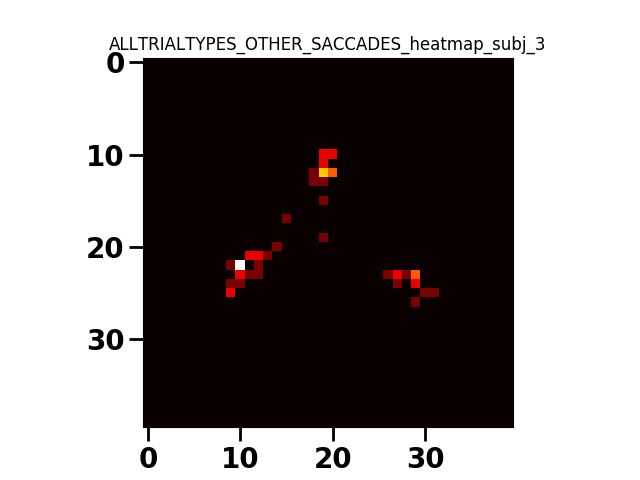
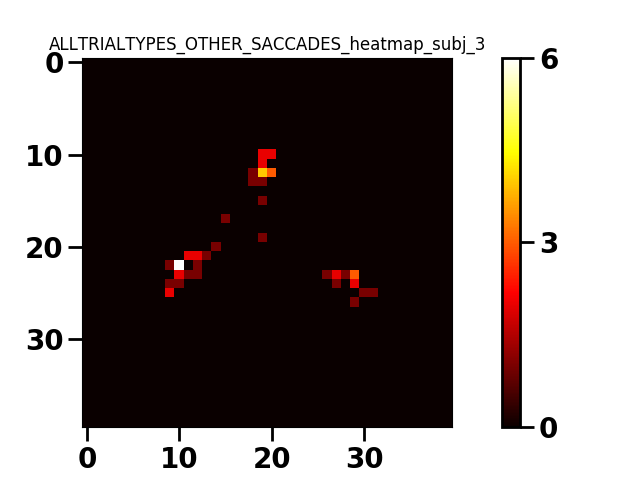
added legends, still figuring out why the legend on the aggregated plot is adding two legends

diff --git a/saccade_kinetmatic_analysis.py b/saccade_kinetmatic_analysis.py
@@ -29,16 +29,16 @@ import os.path
 
 # Trial types: 1 = high C, high A; 2 = High C, low A; 3 = low C, high A; 4 = low C, lowA 
 # 
-# datapath = '/Users/jameswilmott/Documents/MATLAB/data/CRET/'; #
-# savepath =  '/Users/jameswilmott/Documents/Python/CRET/data/';  # #/'/Users/james/Documents/Python/CRET/data/';  # 
-# shelvepath =  '/Users/jameswilmott/Documents/Python/CRET/data/'; # # #  #'/Users/james/Documents/Python/CRET/data/'; # 
-# figurepath = '/Users/jameswilmott/Documents/Python/CRET/figures/'; # #'/Users/james/Documents/Python/CRET/figures/'; #
+datapath = '/Users/jameswilmott/Documents/MATLAB/data/CRET/'; #
+savepath =  '/Users/jameswilmott/Documents/Python/CRET/data/';  # #/'/Users/james/Documents/Python/CRET/data/';  # 
+shelvepath =  '/Users/jameswilmott/Documents/Python/CRET/data/'; # # #  #'/Users/james/Documents/Python/CRET/data/'; # 
+figurepath = '/Users/jameswilmott/Documents/Python/CRET/figures/'; # #'/Users/james/Documents/Python/CRET/figures/'; #
 
 
-datapath = '/Volumes/WORK_HD/data/CRET/'; #'/Users/jameswilmott/Documents/MATLAB/data/CRET/'; #
-savepath =  '/Volumes/WORK_HD/code/Python/CRET/data/'; #'/Users/jameswilmott/Documents/Python/CRET/data/';  # #/'/Users/james/Documents/Python/CRET/data/';  # 
-shelvepath =  '/Volumes/WORK_HD/code/Python/CRET/data/'; #'/Users/jameswilmott/Documents/Python/CRET/data/'; # # #  #'/Users/james/Documents/Python/CRET/data/'; # 
-figurepath = '/Volumes/WORK_HD/code/Python/CRET/figures/'; #'/Users/jameswilmott/Documents/Python/CRET/figures/'; # #'/Users/james/Documents/Python/CRET/figures/'; #
+# datapath = '/Volumes/WORK_HD/data/CRET/'; #'/Users/jameswilmott/Documents/MATLAB/data/CRET/'; #
+# savepath =  '/Volumes/WORK_HD/code/Python/CRET/data/'; #'/Users/jameswilmott/Documents/Python/CRET/data/';  # #/'/Users/james/Documents/Python/CRET/data/';  # 
+# shelvepath =  '/Volumes/WORK_HD/code/Python/CRET/data/'; #'/Users/jameswilmott/Documents/Python/CRET/data/'; # # #  #'/Users/james/Documents/Python/CRET/data/'; # 
+# figurepath = '/Volumes/WORK_HD/code/Python/CRET/figures/'; #'/Users/jameswilmott/Documents/Python/CRET/figures/'; # #'/Users/james/Documents/Python/CRET/figures/'; #
 
 #import database (shelve) for saving processed data and a .csv for saving the velocity threshold criterion data
 subject_data = shelve.open(shelvepath+'data');
@@ -727,6 +727,9 @@ def createFirstSaccadeEndpointMap(block_matrix, ttype):
 			if b.block_nr==len(blocks):
 				#save the 'raw' heat maps
 				figure(); imshow(subj_arrays[subj_nr], cmap='hot'); title('%s_FIRST_SACCADE_heatmap_subj_%s'%(name, subj_nr));
+				#set a legend. first, get the maximal value in the array to define a legend
+				m = round(max(map(max,subj_arrays[subj_nr])),1);
+				cb = colorbar(pad = 0.1, ticks = linspace(0,m,3)); cb.outline.set_linewidth(2.0);
 				savefig(figurepath+'heatmaps/SACCADE_HEATMAPS/'+'%s_FIRSTSACCADE_heatmap_subj_%s.png'%(name, subj_nr));
 				
 # 3. Aggregate across subjects by finding the average fixation accumulation		
@@ -737,6 +740,9 @@ def createFirstSaccadeEndpointMap(block_matrix, ttype):
 	
 	#create and save the figure
 	figure(); imshow(agg_array, cmap='hot'); title('%s_FIRST_SACCADE_heatmap_subj_%s'%(name,'ALLSUBJECTS'));
+	#set a legend. first, get the maximal value in the array to define a legend
+	m = round(max(map(max,agg_array)),1);
+	cb = colorbar(pad = 0.1, ticks = linspace(0,m,3), format = '%2.1f'); cb.outline.set_linewidth(2.0);
 	savefig(figurepath+'heatmaps/SACCADE_HEATMAPS/'+'%s_FIRST_SACCADES_heatmap_subj_%s.png'%(name,'ALLSUBJECTS'));
 	
 	
@@ -834,6 +840,9 @@ def createFirstSaccadeEndpointMapAllTrialTypesTogether(block_matrix):
 			if b.block_nr==len(blocks):
 				#save the 'raw' heat maps
 				figure(); imshow(subj_arrays[subj_nr], cmap='hot'); title('ALLTRIALTYPES_FIRST_SACCADE_heatmap_subj_%s'%(subj_nr));
+				#set a legend. first, get the maximal value in the array to define a legend
+				m = round(max(map(max,subj_arrays[subj_nr])),1);
+				cb = colorbar(pad = 0.1, ticks = linspace(0,m,3)); cb.outline.set_linewidth(2.0);
 				savefig(figurepath+'heatmaps/SACCADE_HEATMAPS/'+'ALLTRIALTYPES_FIRSTSACCADE_heatmap_subj_%s.png'%(subj_nr));				
 			
 				
@@ -844,7 +853,10 @@ def createFirstSaccadeEndpointMapAllTrialTypesTogether(block_matrix):
 	agg_array = agg_array/len(block_matrix); #to get the average
 	
 	#create and save the figure
-	figure(); imshow(agg_array, cmap='hot'); title('ALLTRIALTYPES_FIRST_SACCADE_heatmap_subj_%s'%('ALLSUBJECTS'));
+	figure(); imshow(agg_array, cmap='hot'); title('ALLTRIALTYPES_FIRST_SACCADE_heatmap_subj_%s'%('ALLSUBJECTS')); colorbar();
+	#set a legend. first, get the maximal value in the array to define a legend
+	m = round(max(map(max,agg_array)),1);
+	cb = colorbar(pad = 0.1, ticks = linspace(0,m,3), format = '%2.1f'); cb.outline.set_linewidth(2.0);
 	savefig(figurepath+'heatmaps/SACCADE_HEATMAPS/'+'ALLTRIALTYPES_FIRSTSACCADE_heatmap_subj_%s.png'%('ALLSUBJECTS'));
 	
 
@@ -940,7 +952,11 @@ def createOtherSaccadeEndpointMapAllTrialTypesTogether(block_matrix):
 			if b.block_nr==len(blocks):
 				#save the 'raw' heat maps
 				figure(); imshow(subj_arrays[subj_nr], cmap='hot'); title('ALLTRIALTYPES_OTHER_SACCADES_heatmap_subj_%s'%(subj_nr));
+				#set a legend. first, get the maximal value in the array to define a legend
+				m = round(max(map(max,subj_arrays[subj_nr])),1);
+				cb = colorbar(pad = 0.1, ticks = linspace(0,m,3)); cb.outline.set_linewidth(2.0);
 				savefig(figurepath+'heatmaps/SACCADE_HEATMAPS/'+'ALLTRIALTYPES_OTHER_SACCADES_heatmap_subj_%s.png'%(subj_nr));
+				
 				
 # 3. Aggregate across subjects by finding the average fixation accumulation		
 			
@@ -949,7 +965,10 @@ def createOtherSaccadeEndpointMapAllTrialTypesTogether(block_matrix):
 	agg_array = agg_array/len(block_matrix); #to get the average
 	
 	#create and save the figure
-	figure(); imshow(agg_array, cmap='hot'); title('ALLTRIALTYPES_OTHER_SACCADE_heatmap_subj_%s'%('ALLSUBJECTS'));
+	figure(); imshow(agg_array, cmap='hot'); title('ALLTRIALTYPES_OTHER_SACCADE_heatmap_subj_%s'%('ALLSUBJECTS')); colorbar(pad = 0.1);
+	#set a legend. first, get the maximal value in the array to define a legend
+	m = round(max(map(max,agg_array))); #,1);
+	cb = colorbar(pad = 0.1, ticks = linspace(0,m,3), format = '%2.1f'); cb.outline.set_linewidth(2.0);	
 	savefig(figurepath+'heatmaps/SACCADE_HEATMAPS/'+'ALLTRIALTYPES_OTHER_SACCADES_heatmap_subj_%s.png'%('ALLSUBJECTS'));						
 	
 	1/0;
@@ -1044,6 +1063,9 @@ def createAllSaccadeEndpointMap(block_matrix, ttype):
 			if b.block_nr==len(blocks):
 				#save the 'raw' heat maps
 				figure(); imshow(subj_arrays[subj_nr], cmap='hot'); title('%s_ALL_SACCADES_heatmap_subj_%s'%(name, subj_nr));
+				#set a legend. first, get the maximal value in the array to define a legend
+				m = round(max(map(max,subj_arrays[subj_nr])),1);
+				cb = colorbar(pad = 0.1, ticks = linspace(0,m,3)); cb.outline.set_linewidth(2.0);
 				savefig(figurepath+'heatmaps/SACCADE_HEATMAPS/'+'%s_ALL_SACCADES_heatmap_subj_%s.png'%(name, subj_nr));
 				
 # 3. Aggregate across subjects by finding the average fixation accumulation		
@@ -1054,6 +1076,9 @@ def createAllSaccadeEndpointMap(block_matrix, ttype):
 	
 	#create and save the figure
 	figure(); imshow(agg_array, cmap='hot'); title('%s_ALL_SACCADE_heatmap_subj_%s'%(name,'ALLSUBJECTS'));
+	#set a legend. first, get the maximal value in the array to define a legend
+	m = round(max(map(max,agg_array)),1);
+	cb = colorbar(pad = 0.1, ticks = linspace(0,m,3), format = '%2.1f'); cb.outline.set_linewidth(2.0);
 	savefig(figurepath+'heatmaps/SACCADE_HEATMAPS/'+'%s_ALL_SACCADES_heatmap_subj_%s.png'%(name,'ALLSUBJECTS'));
 	
 	
@@ -1141,6 +1166,9 @@ def createAllSaccadeEndpointMapAllTrialTypesTogether(block_matrix):
 			if b.block_nr==len(blocks):
 				#save the 'raw' heat maps
 				figure(); imshow(subj_arrays[subj_nr], cmap='hot'); title('ALLTRIALTYPES_ALL_SACCADES_heatmap_subj_%s'%(subj_nr));
+				#set a legend. first, get the maximal value in the array to define a legend
+				m = round(max(map(max,subj_arrays[subj_nr])),1);
+				cb = colorbar(pad = 0.1, ticks = linspace(0,m,3)); cb.outline.set_linewidth(2.0);
 				savefig(figurepath+'heatmaps/SACCADE_HEATMAPS/'+'ALLTRIALTYPES_ALL_SACCADES_heatmap_subj_%s.png'%(subj_nr));
 				
 # 3. Aggregate across subjects by finding the average fixation accumulation		
@@ -1151,6 +1179,9 @@ def createAllSaccadeEndpointMapAllTrialTypesTogether(block_matrix):
 	
 	#create and save the figure
 	figure(); imshow(agg_array, cmap='hot'); title('ALLTRIALTYPES_ALL_SACCADE_heatmap_subj_%s'%('ALLSUBJECTS'));
+	#set a legend. first, get the maximal value in the array to define a legend
+	m = round(max(map(max,agg_array)),1);
+	cb = colorbar(pad = 0.1, ticks = linspace(0,m,3), format = '%2.1f'); cb.outline.set_linewidth(2.0);
 	savefig(figurepath+'heatmaps/SACCADE_HEATMAPS/'+'ALLTRIALTYPES_ALL_SACCADES_heatmap_subj_%s.png'%('ALLSUBJECTS'));
 	
 	1/0

diff --git a/cret_analysis.py b/cret_analysis.py
@@ -23,16 +23,16 @@ import os.path
 
 # Trial types: 1 = high C, high A; 2 = High C, low A; 3 = low C, high A; 4 = low C, lowA 
 
-# datapath = '/Users/jameswilmott/Documents/MATLAB/data/CRET/'; #
-# savepath =  '/Users/jameswilmott/Documents/Python/CRET/data/';  # #/'/Users/james/Documents/Python/CRET/data/';  # 
-# shelvepath =  '/Users/jameswilmott/Documents/Python/CRET/data/'; # # #  #'/Users/james/Documents/Python/CRET/data/'; # 
-# figurepath = '/Users/jameswilmott/Documents/Python/CRET/figures/'; # #'/Users/james/Documents/Python/CRET/figures/'; #
+datapath = '/Users/jameswilmott/Documents/MATLAB/data/CRET/'; #
+savepath =  '/Users/jameswilmott/Documents/Python/CRET/data/';  # #/'/Users/james/Documents/Python/CRET/data/';  # 
+shelvepath =  '/Users/jameswilmott/Documents/Python/CRET/data/'; # # #  #'/Users/james/Documents/Python/CRET/data/'; # 
+figurepath = '/Users/jameswilmott/Documents/Python/CRET/figures/'; # #'/Users/james/Documents/Python/CRET/figures/'; #
 
 
-datapath = '/Volumes/WORK_HD/data/CRET/'; #'/Users/jameswilmott/Documents/MATLAB/data/CRET/'; #
-savepath =  '/Volumes/WORK_HD/code/Python/CRET/data/'; #'/Users/jameswilmott/Documents/Python/CRET/data/';  # #/'/Users/james/Documents/Python/CRET/data/';  # 
-shelvepath =  '/Volumes/WORK_HD/code/Python/CRET/data/'; #'/Users/jameswilmott/Documents/Python/CRET/data/'; # # #  #'/Users/james/Documents/Python/CRET/data/'; # 
-figurepath = '/Volumes/WORK_HD/code/Python/CRET/figures/'; #'/Users/jameswilmott/Documents/Python/CRET/figures/'; # #'/Users/james/Documents/Python/CRET/figures/'; #
+# datapath = '/Volumes/WORK_HD/data/CRET/'; #'/Users/jameswilmott/Documents/MATLAB/data/CRET/'; #
+# savepath =  '/Volumes/WORK_HD/code/Python/CRET/data/'; #'/Users/jameswilmott/Documents/Python/CRET/data/';  # #/'/Users/james/Documents/Python/CRET/data/';  # 
+# shelvepath =  '/Volumes/WORK_HD/code/Python/CRET/data/'; #'/Users/jameswilmott/Documents/Python/CRET/data/'; # # #  #'/Users/james/Documents/Python/CRET/data/'; # 
+# figurepath = '/Volumes/WORK_HD/code/Python/CRET/figures/'; #'/Users/jameswilmott/Documents/Python/CRET/figures/'; # #'/Users/james/Documents/Python/CRET/figures/'; #
 
 #import database (shelve) for saving processed data and a .csv for saving the velocity threshold criterion data
 subject_data = shelve.open(shelvepath+'data');
